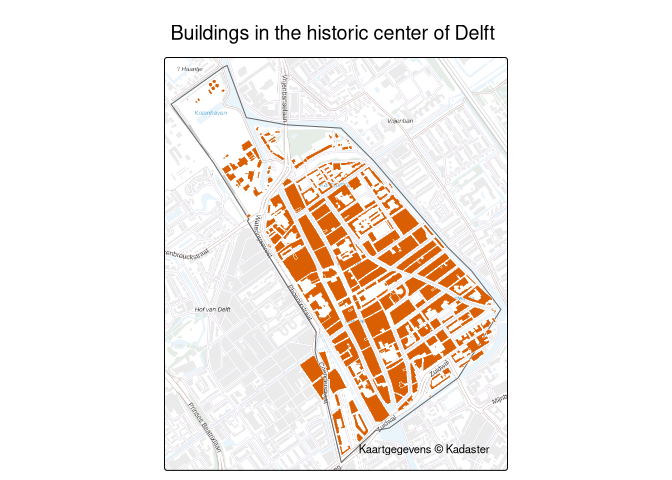
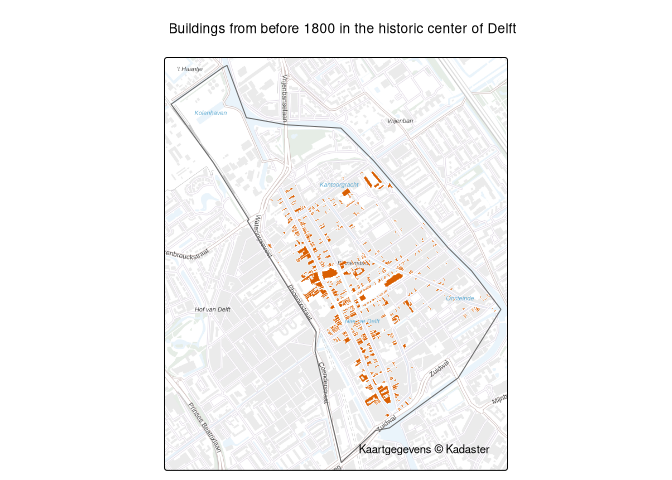
chore: release 0.2.0, refresh the README example and getting-started
Bump the version to 0.2.0, mention server-side CQL2 filtering in the
Description, and drop the unused httptest2 and withr from Suggests.
Rewrite cran-comments.md for a feature release and update the NEWS
heading.

The README example used the dataset id brt/top10nl, which no longer
exists in the PDOK index (it is kadaster/brt-top10nl now). Replace it
with BAG buildings from before 1800 in the Delft historic center, which
also shows the new filter argument. Switch the lifecycle badge to
stable. Add a short filtering section to the getting-started article
and correct its map title year.

Changed region(s): [[0.3125, 0.2812, 0.75, 0.9375], [0.25, 0.0312, 0.7812, 0.0938], [0.3125, 0.1562, 0.3438, 0.1875]]

diff --git a/README.md b/README.md
@@ -6,7 +6,7 @@
 <!-- badges: start -->
 
 [![Lifecycle:
-experimental](https://img.shields.io/badge/lifecycle-experimental-orange.svg)](https://lifecycle.r-lib.org/articles/stages.html#experimental)
+stable](https://img.shields.io/badge/lifecycle-stable-brightgreen.svg)](https://lifecycle.r-lib.org/articles/stages.html#stable)
 [![CRAN
 status](https://www.r-pkg.org/badges/version/pdokr)](https://CRAN.R-project.org/package=pdokr)
 [![R-CMD-check](https://github.com/coeneisma/pdokr/actions/workflows/R-CMD-check.yaml/badge.svg)](https://github.com/coeneisma/pdokr/actions/workflows/R-CMD-check.yaml)
@@ -35,7 +35,8 @@ Install the released version of `pdokr` from
 install.packages("pdokr")
 ```
 
-Or the development version from [GitHub](https://github.com/coeneisma/pdokr):
+Or the development version from
+[GitHub](https://github.com/coeneisma/pdokr):
 
 ``` r
 # install.packages("remotes")
@@ -45,8 +46,8 @@ remotes::install_github("coeneisma/pdokr@develop")
 ## Example
 
 Pick an area from the administrative boundaries, then load another layer
-within it. Here we take the historic center of Delft and map every
-building in it.
+within it, filtered on the server by an attribute. Here we take the
+historic center of Delft and map every building from before 1800.
 
 ``` r
 library(pdokr)
@@ -54,18 +55,23 @@ library(tmap)
 
 # A municipality, and one of its districts (the historic center of Delft)
 gemeenten <- pdok_read(
-  "cbs/gebiedsindelingen", "gemeente_gegeneraliseerd", datetime = 2024
+  "cbs/gebiedsindelingen", "gemeente_gegeneraliseerd", datetime = 2025
 )
 delft <- gemeenten[gemeenten$statnaam == "Delft", ]
 
 wijken <- pdok_read(
-  "cbs/gebiedsindelingen", "wijk_gegeneraliseerd", datetime = 2024,
+  "cbs/gebiedsindelingen", "wijk_gegeneraliseerd", datetime = 2025,
   filter_by = delft, predicate = "within"
 )
 binnenstad <- wijken[wijken$statnaam == "Wijk 11 Binnenstad", ]
 
-# Every building in that district, from the TOP10NL topography
-buildings <- pdok_read("brt/top10nl", "gebouw_vlak", filter_by = binnenstad)
+# Every building in that district built before 1800, from the BAG.
+# The construction-year filter runs on the PDOK server.
+buildings <- pdok_read(
+  "kadaster/bag", "pand",
+  filter_by = binnenstad,
+  filter = pdok_where(bouwjaar < 1800)
+)
 
 # Map it
 tmap_mode("plot")
@@ -74,7 +80,7 @@ tm_basemap(pdok_basemap("grijs")) +
   tm_borders(col = "grey40") +
   tm_shape(buildings) +
   tm_polygons(fill = "#d95f02", col = "white", lwd = 0.4) +
-  tm_title("Buildings in the historic center of Delft") +
+  tm_title("Buildings from before 1800 in the historic center of Delft") +
   tm_credits("Kaartgegevens © Kadaster")
 ```
 

diff --git a/cran-comments.md b/cran-comments.md
@@ -1,27 +1,29 @@
 ## R CMD check results
 
-0 errors | 0 warnings | 1 note
-
-* This is a new submission.
-
-* The CRAN incoming check flags possibly misspelled words in DESCRIPTION.
-  These are spelled correctly: "Publieke Dienstverlening Op de Kaart" is the
-  official Dutch name of the PDOK platform, and "geodata" / "geocoded" are
-  standard geospatial terms.
+0 errors | 0 warnings | 0 notes
 
 ## Test environments
 
 * Local: Arch Linux, R 4.6.1
-* win-builder: Windows, R-devel (0 errors, 0 warnings)
+* GitHub Actions: macOS (R release), Windows (R release),
+  Ubuntu (R devel, release and oldrel-1)
+* win-builder: Windows, R-devel
 
 ## Submission notes
 
-* This is the first submission of pdokr.
+* This is a feature release (0.1.0 -> 0.2.0). It adds server-side
+  attribute filtering (`pdok_where()`, the `filter` argument of
+  `pdok_read()`, `pdok_list_queryables()`) and `pdok_read_href()` for
+  following links between features. There are no breaking changes.
 
 * pdokr is a client for the Dutch national geodata platform PDOK
   (<https://www.pdok.nl/>). Some examples and tests query the live PDOK web
-  services. All network-using examples are wrapped in `\donttest{}`, and the
-  integration tests are guarded with `skip_on_cran()` and `skip_if_offline()`,
-  so `R CMD check` runs without network access on CRAN.
+  services. All network-using examples are wrapped in `\donttest{}`, and
+  the integration tests are guarded with `skip_on_cran()` and
+  `skip_if_offline()`, so `R CMD check` runs without network access on CRAN.
 
 * The package writes only to `tempdir()` in its examples and tests.
+
+## Reverse dependencies
+
+There are no reverse dependencies.

diff --git a/NEWS.md b/NEWS.md
@@ -1,4 +1,4 @@
-# pdokr (development version)
+# pdokr 0.2.0
 
 * Support for server-side attribute filtering with CQL2, which
   PDOK offers on every dataset with OGC API Features (each layer exposes a
